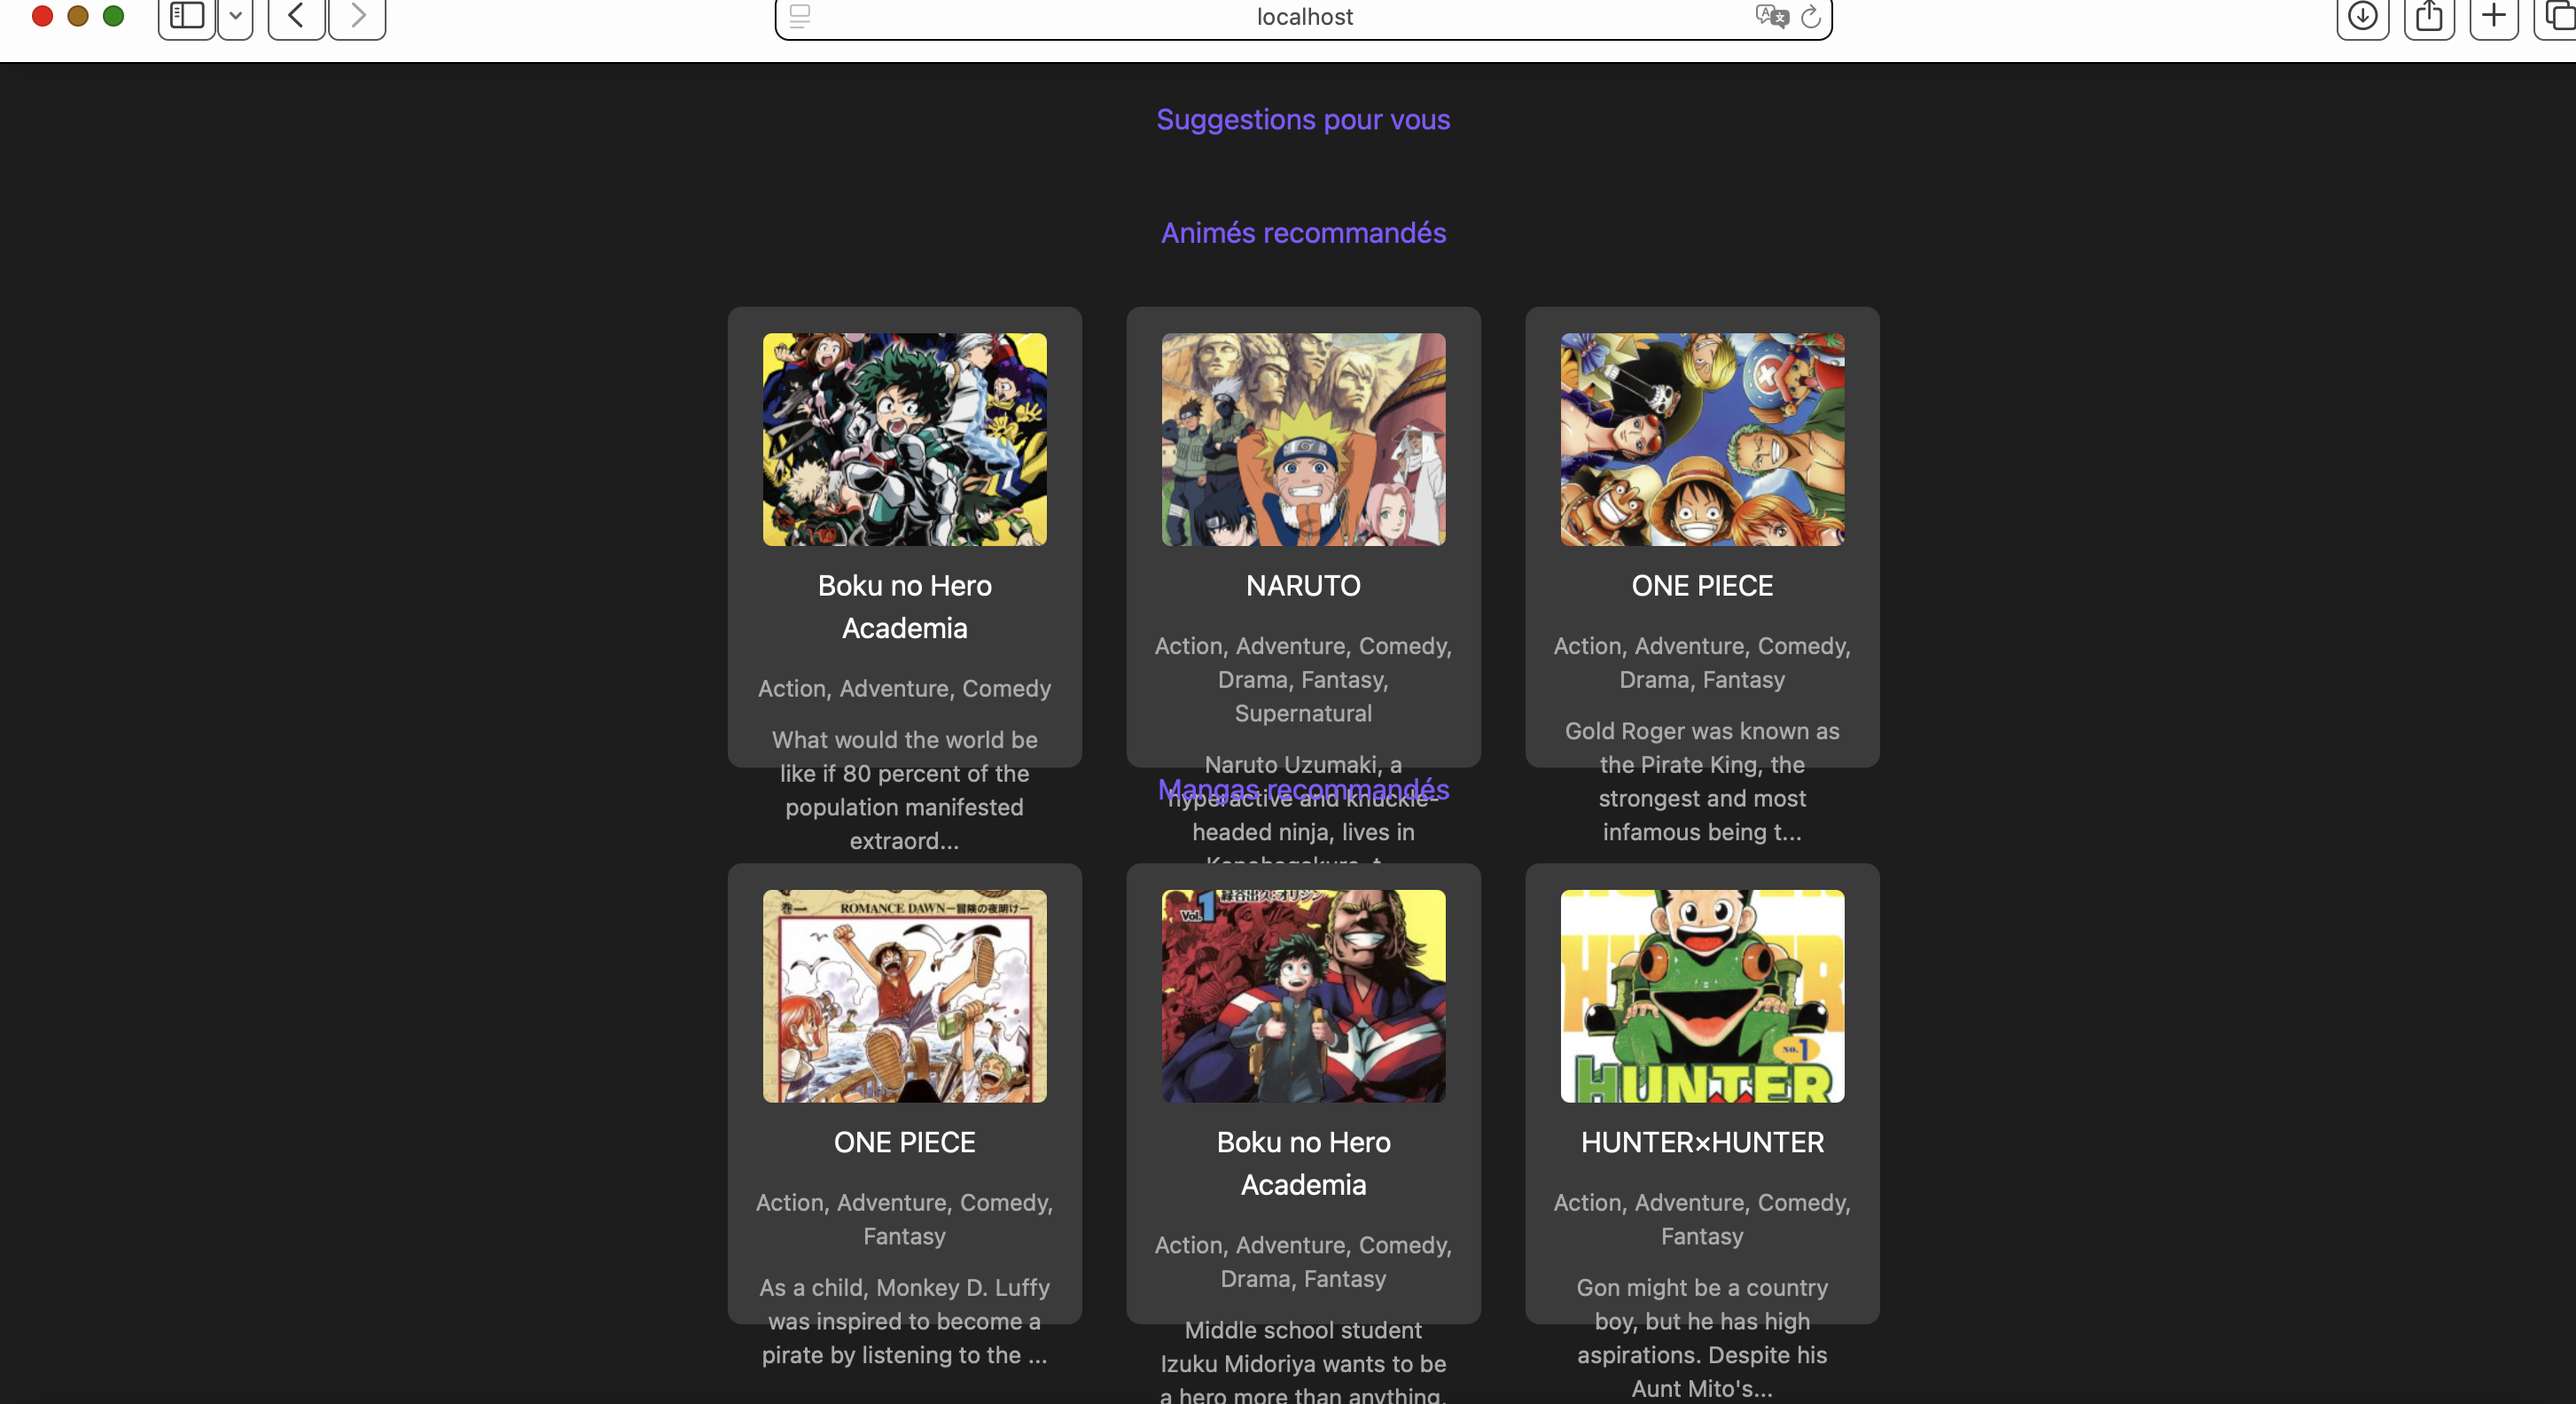
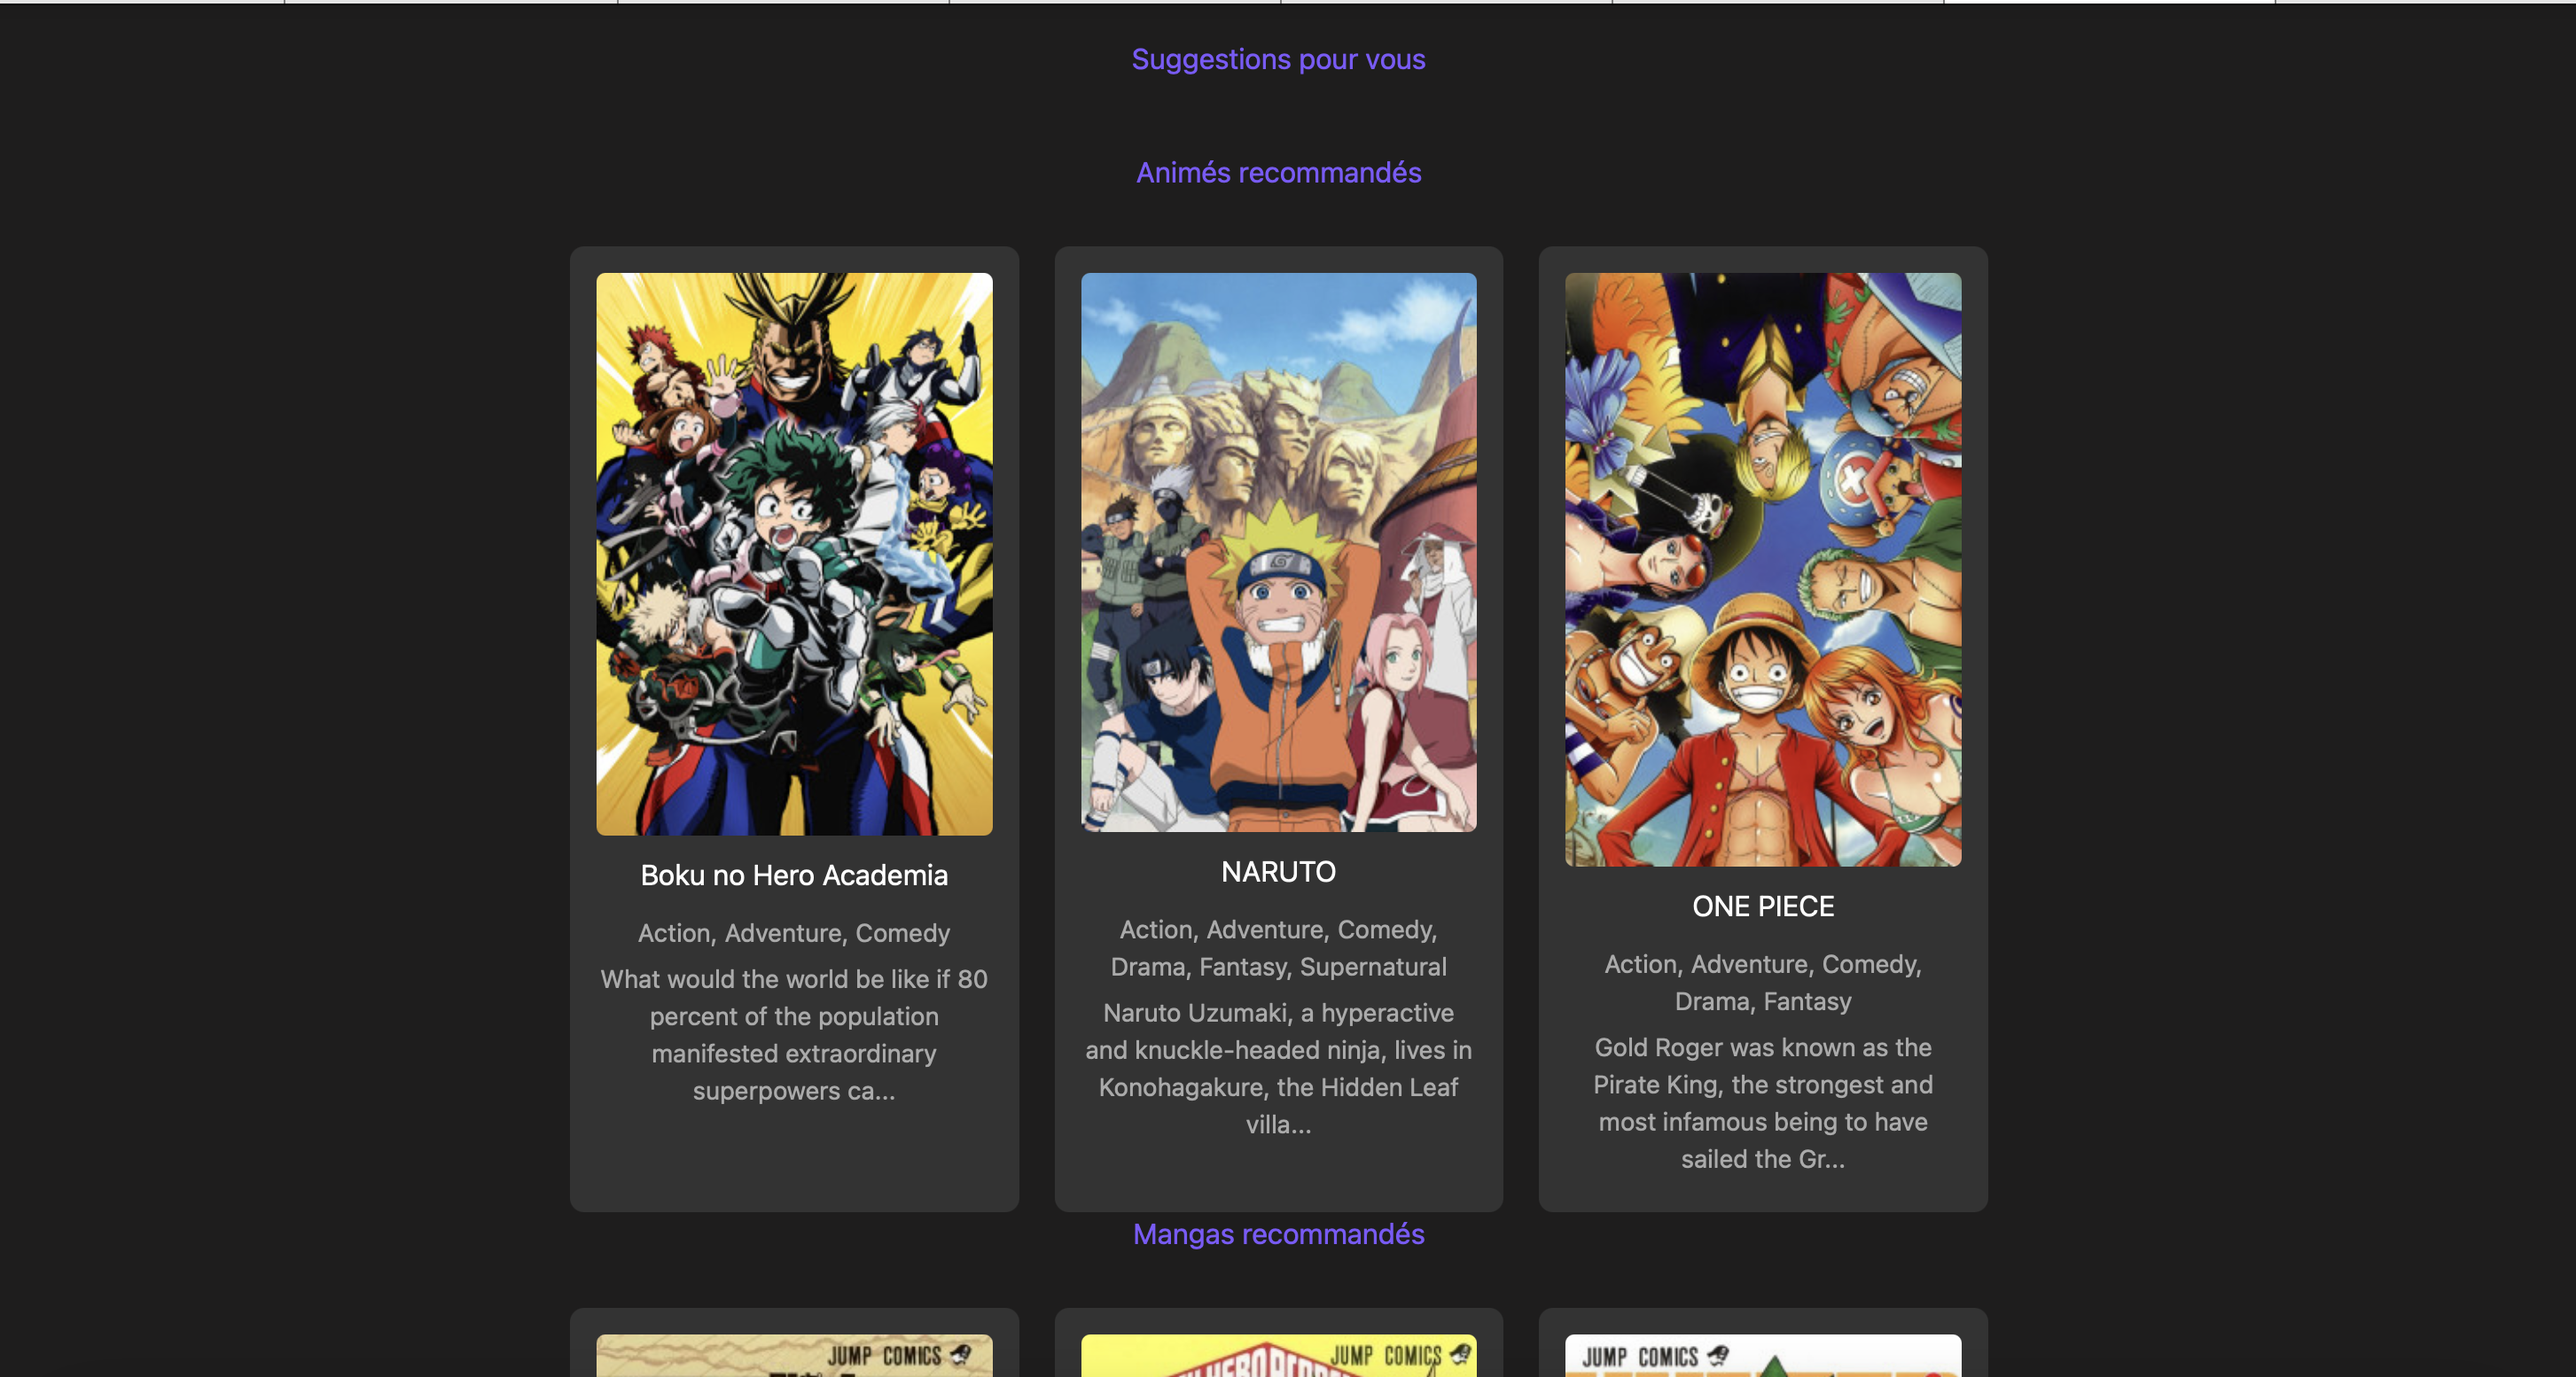
change of style and add nav bar

diff --git a/style.css b/style.css
@@ -1,3 +1,28 @@
+/* Barre de navigation */
+#navbar {
+    position: fixed;
+    top: 0;
+    width: 100%;
+    background-color: #1e1d1d;
+    padding: 20px 20px 20px 0;
+    display: flex;
+    justify-content: right;
+    gap: 20px;
+    z-index: 1000;
+}
+
+#navbar .nav-link {
+    color: #f5f5f5;
+    text-decoration: none;
+    font-size: 1.2em;
+    font-weight: 700;
+    transition: color 0.3s ease;
+}
+
+#navbar .nav-link:hover {
+    color: #EB1A2A;
+}
+
 /* Police moderne et reset */
 body {
     font-family: 'Roboto', sans-serif;
@@ -9,17 +34,17 @@ body {
     justify-content: center;
     align-items: center;
     min-height: 100vh;
-    overflow: hidden;
 }
 
-/* Conteneur principal en mode horizontal */
+/* Conteneur principal en mode vertical */
 #main-container {
+    padding-top: 60px; /* Espace pour éviter le chevauchement avec la barre de navigation */
     display: flex;
-    flex-direction: row;
-    align-items: flex-start;
+    flex-direction: column;
+    align-items: center;
     gap: 30px;
     padding: 30px;
-    overflow-x: auto;
+    width: 100%;
     max-width: 1200px;
 }
 
@@ -43,14 +68,11 @@ body {
 #hero {
     text-align: center;
     padding: 20px;
-    flex: 1;
-    display: flex;
-    flex-direction: column;
-    align-items: center;
+    width: 100%;
 }
 
 #hero h1 {
-    font-size: 40px;
+    font-size: 2.5em;
     color: #7E59FC;
     margin-bottom: 10px;
     font-weight: 700;
@@ -58,7 +80,7 @@ body {
 }
 
 #hero p {
-    font-size: 18px;
+    font-size: 1em;
     color: #cfcfcf;
     margin-bottom: 20px;
 }
@@ -81,13 +103,16 @@ body {
 
 /* Features Section */
 #features {
-    flex: 1;
     padding: 20px;
     text-align: center;
+    width: 100%;
+    display: flex;
+    flex-direction: column;
+    align-items: center; /* Centrer les cartes */
 }
 
 #features h2 {
-    font-size: 30px;
+    font-size: 2em;
     color: #EB1A2A;
     margin-bottom: 20px;
 }
@@ -101,6 +126,8 @@ body {
     padding: 15px;
     border-radius: 12px;
     transition: transform 0.3s ease;
+    width: 100%;
+    max-width: 300px; /* Limite la largeur des cartes */
 }
 
 .feature:hover {
@@ -114,31 +141,64 @@ body {
 }
 
 .feature h3 {
-    font-size: 22px;
+    font-size: 1.5em;
     color: #7E59FC;
     margin: 10px 0;
 }
 
 .feature p {
-    font-size: 16px;
+    font-size: 1em;
     color: #b0b0b0;
+}
+
+/* Lightbox styling */
+.lightbox-overlay {
+    position: fixed;
+    top: 0;
+    left: 0;
+    width: 100%;
+    height: 100%;
+    background: rgba(0, 0, 0, 0.8);
+    display: none;
+    justify-content: center;
+    align-items: center;
+    z-index: 1000;
+}
+
+.lightbox-overlay img {
+    max-width: 90%;
+    max-height: 90%;
+    border-radius: 8px;
+}
+
+.lightbox-overlay.visible {
+    display: flex;
+}
+
+.lightbox-overlay .close-btn {
+    position: absolute;
+    top: 20px;
+    right: 20px;
+    font-size: 30px;
+    color: #ffffff;
+    cursor: pointer;
 }
 
 /* About Section */
 #about {
-    flex: 1;
     padding: 20px;
     text-align: center;
+    width: 100%;
 }
 
 #about h2 {
-    font-size: 30px;
+    font-size: 2em;
     color: #EB1A2A;
     margin-bottom: 15px;
 }
 
 #about p {
-    font-size: 16px;
+    font-size: 1em;
     color: #b0b0b0;
     line-height: 1.6;
     margin-bottom: 20px;
@@ -149,7 +209,7 @@ body {
     color: #7E59FC;
     text-decoration: none;
     margin: 0 10px;
-    font-size: 18px;
+    font-size: 1em;
     transition: color 0.3s ease;
 }
 
@@ -157,14 +217,35 @@ body {
     color: #EB1A2A;
 }
 
-/* Media Queries pour Responsivité */
+/* Responsive Styles */
 @media (max-width: 768px) {
-    #main-container {
-        flex-direction: column;
-        align-items: center;
+    #hero h1 {
+        font-size: 2em;
     }
 
-    #logo-container {
-        margin-bottom: 20px;
+    #features h2, #about h2 {
+        font-size: 1.8em;
+    }
+
+    .feature h3 {
+        font-size: 1.3em;
+    }
+}
+
+@media (max-width: 480px) {
+    #hero h1 {
+        font-size: 1.5em;
+    }
+
+    #features h2, #about h2 {
+        font-size: 1.5em;
+    }
+
+    .feature {
+        max-width: 100%;
+    }
+
+    .feature img {
+        width: 100px;
     }
 }

diff --git a/script.js b/script.js
@@ -1,0 +1,39 @@
+document.addEventListener("DOMContentLoaded", () => {
+    // Sélectionner tous les liens d'images
+    const lightboxLinks = document.querySelectorAll(".lightbox");
+    
+    // Créer l'élément de superposition pour la lightbox
+    const lightboxOverlay = document.createElement("div");
+    lightboxOverlay.classList.add("lightbox-overlay");
+  
+    const imgElement = document.createElement("img");
+    const closeButton = document.createElement("span");
+    closeButton.textContent = "×";
+    closeButton.classList.add("close-btn");
+  
+    // Ajouter les éléments image et bouton de fermeture dans l'overlay
+    lightboxOverlay.appendChild(imgElement);
+    lightboxOverlay.appendChild(closeButton);
+    document.body.appendChild(lightboxOverlay);
+  
+    // Ajouter un événement clic sur chaque lien d'image
+    lightboxLinks.forEach(link => {
+      link.addEventListener("click", (e) => {
+        e.preventDefault();
+        imgElement.src = link.href;
+        lightboxOverlay.classList.add("visible");
+      });
+    });
+  
+    // Fermer la lightbox en cliquant sur le bouton de fermeture ou l'overlay
+    closeButton.addEventListener("click", () => {
+      lightboxOverlay.classList.remove("visible");
+    });
+  
+    lightboxOverlay.addEventListener("click", (e) => {
+      if (e.target === lightboxOverlay) {
+        lightboxOverlay.classList.remove("visible");
+      }
+    });
+  });
+  

diff --git a/index.html b/index.html
@@ -9,6 +9,13 @@
 </head>
 <body>
 
+
+  <!-- Barre de navigation -->
+  <nav id="navbar">
+    <a href="#features" class="nav-link">Fonctionnalités</a>
+    <a href="#about" class="nav-link">À propos</a>
+  </nav>
+  
   <!-- Conteneur Principal -->
   <div id="main-container">
     
@@ -26,12 +33,20 @@
     <section id="features">
       <h2>Fonctionnalités Principales</h2>
       <div class="feature">
-        <img src="landing0.png" alt="Suivi des séries">
+        <a href="landing0.png" class="lightbox">
+          <img src="landing0.png" alt="Suivi des séries">
+        <a href="landing1.png" class="lightbox">
+            <img src="landing1.png" alt="Suivi des séries">
+        <a href="landing3.png" class="lightbox">
+            <img src="landing3.png" alt="Suivi des séries">
+        </a>
         <h3>Suivi des Séries</h3>
         <p>Gardez une trace des séries de mangas et d’animes que vous suivez.</p>
       </div>
       <div class="feature">
-        <img src="landing4.png" alt="Recommandations">
+        <a href="landing4.png" class="lightbox">
+          <img src="landing4.png" alt="Recommandations">
+        </a>
         <h3>Recommandations Personnalisées</h3>
         <p>Recevez des recommandations basées sur vos goûts et intérêts.</p>
       </div>
